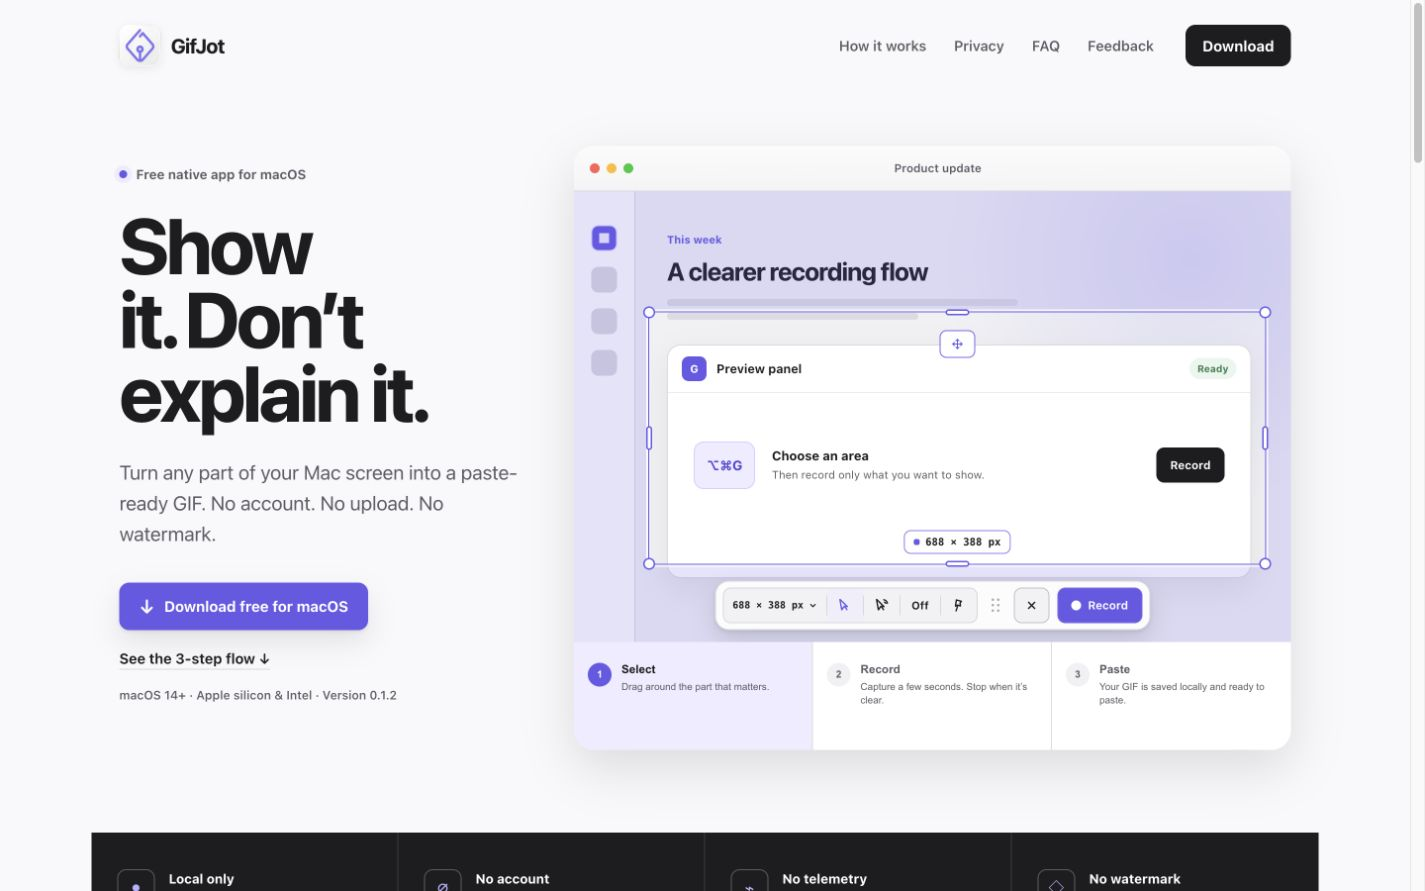
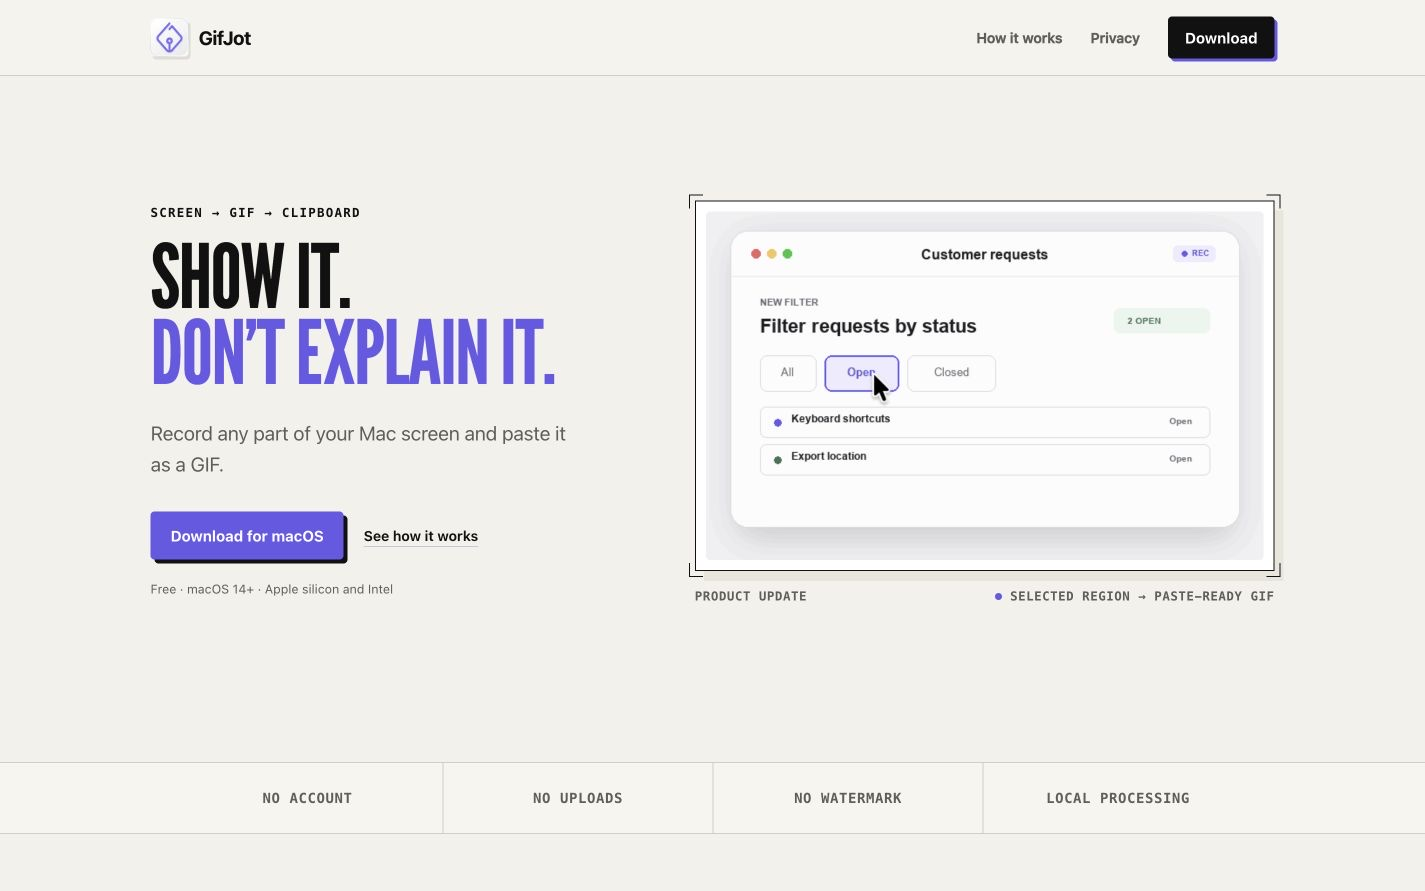
Refresh public repository visuals (#9)
Align the public GitHub presentation with the live GifJot website using current production captures, matching product copy, and the updated proof-sheet visual direction.

diff --git a/README.md b/README.md
@@ -8,13 +8,13 @@
 
 <p align="center">
   <strong>Show it. Don’t explain it.</strong><br>
-  Turn any part of your Mac screen into a paste-ready GIF.
+  Record any part of your Mac screen and paste it as a GIF.
 </p>
 
 <p align="center">
-  <a href="https://gifjot.com"><strong>Website</strong></a>
-  ·
   <a href="https://github.com/jamkoo/gifJot/releases/latest/download/GifJot.dmg"><strong>Download for macOS</strong></a>
+  ·
+  <a href="https://gifjot.com"><strong>Website</strong></a>
   ·
   <a href="https://github.com/jamkoo/gifJot/releases/latest">Latest release</a>
   ·
@@ -22,34 +22,36 @@
 </p>
 
 <p align="center">
-  <img alt="macOS 14 or later" src="https://img.shields.io/badge/macOS-14%2B-171717">
-  <img alt="Current version 0.1.5" src="https://img.shields.io/badge/version-0.1.5-6758E8">
-  <img alt="Apple silicon and Intel" src="https://img.shields.io/badge/Mac-Apple_silicon_%26_Intel-171717">
-  <img alt="Local-only processing" src="https://img.shields.io/badge/processing-local_only-6758E8">
+  <strong>No account</strong> ·
+  <strong>No uploads</strong> ·
+  <strong>No watermark</strong> ·
+  <strong>Local processing</strong>
 </p>
 
-![GifJot website showing the screen-to-GIF workflow](assets/screenshots/website-desktop.jpg)
+<p align="center">
+  macOS 14+ · Apple silicon and Intel · Version 0.1.5
+</p>
+
+![The GifJot website showing its screen-to-GIF workflow and live product example](assets/screenshots/website-desktop.jpg)
 
 GifJot is a free, lightweight, native macOS menu-bar app. Select a region,
-record a few clear seconds, stop, and your GIF is saved locally and ready to
-paste. There is no account, upload, telemetry, advertising, watermark, or
-third-party runtime dependency.
+record a few clear seconds, stop, and paste the finished GIF where your
+explanation belongs. There is no account, upload, telemetry, advertising,
+watermark, or third-party runtime dependency.
 
-## See it in action
+## Made for quick explanations
 
 | Bug report | Product update | Support reply |
 | :---: | :---: | :---: |
 | ![A priority selection disappears instead of saving](assets/demos/bug-report.gif) | ![An Open filter updates a customer-request list](assets/demos/product-update.gif) | ![The Copy after recording setting is switched on](assets/demos/support-reply.gif) |
 | Catch the bug | Demo the update | Show the setting |
 
-## One clean loop
+## A GIF in three steps
 
 1. Press `Option-Command-G`, then drag around the part of the screen you want
    to show.
-2. Adjust the region and choose your output, pointer, click-marker, and
-   countdown options.
-3. Record, then stop from the controls or press `Option-Command-G` again.
-4. Paste the GIF from your clipboard or find it in `~/GifJot`.
+2. Capture a few seconds, then stop when the point is clear.
+3. GifJot saves the GIF locally and can copy it to your clipboard.
 
 ## Built for focused screen sharing
 
@@ -80,7 +82,7 @@ notarized by Apple, and stapled for normal Gatekeeper verification.
 - Apple silicon or Intel Mac
 - Screen Recording permission
 
-## Privacy
+## Your screen stays on your Mac
 
 GifJot processes recordings locally and works without an account. The Mac app
 does not include uploads, analytics, advertising, telemetry, or crash-reporting
@@ -102,7 +104,7 @@ Read the complete [privacy statement](PRIVACY.md).
 <summary>Mobile website preview</summary>
 
 <p align="center">
-  <img src="assets/screenshots/website-mobile.jpg" width="390" alt="GifJot website on a mobile viewport">
+  <img src="assets/screenshots/website-mobile.jpg" width="390" alt="The current GifJot website on a mobile viewport">
 </p>
 
 </details>
